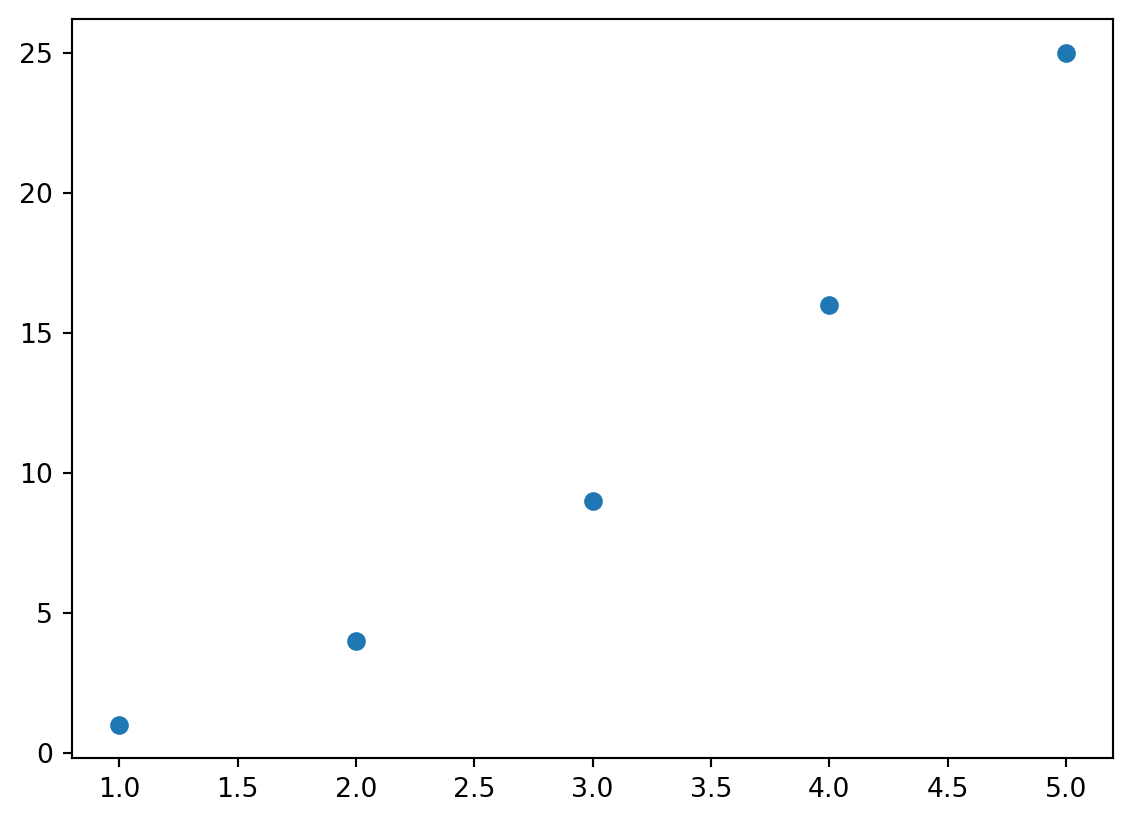
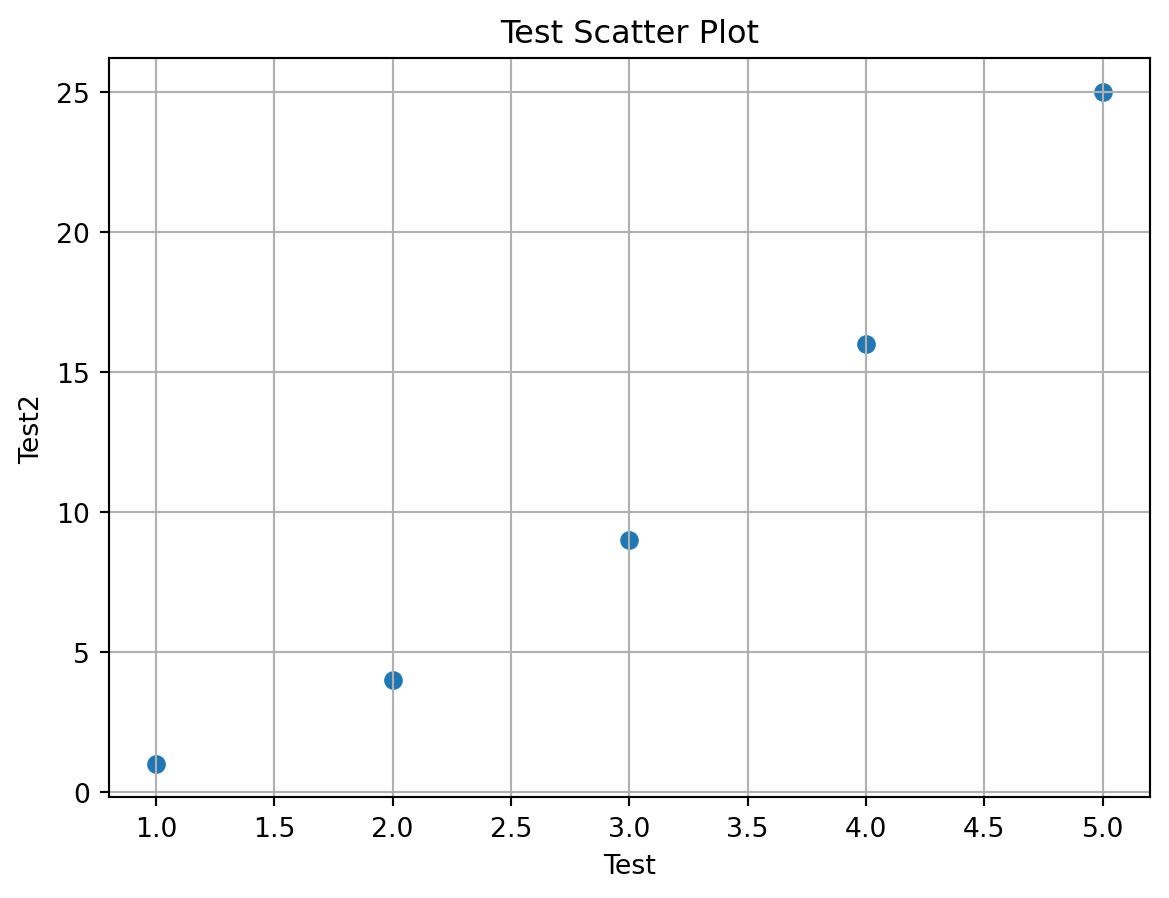
Built site for gh-pages

diff --git a/contents/RL/Rappels.html b/contents/RL/Rappels.html
@@ -236,18 +236,18 @@ window.Quarto = {
   <li><a href="#some-foundations-of-reinforcement-learning" id="toc-some-foundations-of-reinforcement-learning" class="nav-link active" data-scroll-target="#some-foundations-of-reinforcement-learning"><span class="header-section-number">1.1</span> Some Foundations of Reinforcement Learning</a>
   <ul class="collapse">
   <li><a href="#markov-decision-processes" id="toc-markov-decision-processes" class="nav-link" data-scroll-target="#markov-decision-processes"><span class="header-section-number">1.1.1</span> Markov Decision Processes</a></li>
-  <li><a href="#value-based-methods" id="toc-value-based-methods" class="nav-link" data-scroll-target="#value-based-methods"><span class="header-section-number">1.1.2</span> Value-based methods</a></li>
-  <li><a href="#policy-based-methods" id="toc-policy-based-methods" class="nav-link" data-scroll-target="#policy-based-methods"><span class="header-section-number">1.1.3</span> Policy-based methods</a></li>
-  <li><a href="#tbd" id="toc-tbd" class="nav-link" data-scroll-target="#tbd"><span class="header-section-number">1.1.4</span> TBD</a></li>
-  <li><a href="#section" id="toc-section" class="nav-link" data-scroll-target="#section"><span class="header-section-number">1.1.5</span> </a></li>
+  <li><a href="#value-based-methods" id="toc-value-based-methods" class="nav-link" data-scroll-target="#value-based-methods"><span class="header-section-number">1.2.1</span> Value-based methods</a></li>
+  <li><a href="#policy-based-methods" id="toc-policy-based-methods" class="nav-link" data-scroll-target="#policy-based-methods"><span class="header-section-number">1.2.2</span> Policy-based methods</a></li>
+  <li><a href="#tbd" id="toc-tbd" class="nav-link" data-scroll-target="#tbd"><span class="header-section-number">1.2.3</span> TBD</a></li>
+  <li><a href="#section" id="toc-section" class="nav-link" data-scroll-target="#section"><span class="header-section-number">1.2.4</span> </a></li>
   </ul></li>
-  <li><a href="#reinforcement-learning-in-continous-time" id="toc-reinforcement-learning-in-continous-time" class="nav-link" data-scroll-target="#reinforcement-learning-in-continous-time"><span class="header-section-number">1.2</span> Reinforcement Learning in Continous Time</a>
+  <li><a href="#reinforcement-learning-in-continous-time" id="toc-reinforcement-learning-in-continous-time" class="nav-link" data-scroll-target="#reinforcement-learning-in-continous-time"><span class="header-section-number">1.3</span> Reinforcement Learning in Continous Time</a>
   <ul class="collapse">
-  <li><a href="#problem-formulation" id="toc-problem-formulation" class="nav-link" data-scroll-target="#problem-formulation"><span class="header-section-number">1.2.1</span> Problem Formulation</a></li>
-  <li><a href="#policy-gradient-methods-in-continous-time" id="toc-policy-gradient-methods-in-continous-time" class="nav-link" data-scroll-target="#policy-gradient-methods-in-continous-time"><span class="header-section-number">1.2.2</span> Policy gradient methods in continous time</a></li>
-  <li><a href="#q-learning-and-approximations-in-continous-time" id="toc-q-learning-and-approximations-in-continous-time" class="nav-link" data-scroll-target="#q-learning-and-approximations-in-continous-time"><span class="header-section-number">1.2.3</span> Q-learning and approximations in continous time</a></li>
+  <li><a href="#problem-formulation" id="toc-problem-formulation" class="nav-link" data-scroll-target="#problem-formulation"><span class="header-section-number">1.3.1</span> Problem Formulation</a></li>
+  <li><a href="#policy-gradient-methods-in-continous-time" id="toc-policy-gradient-methods-in-continous-time" class="nav-link" data-scroll-target="#policy-gradient-methods-in-continous-time"><span class="header-section-number">1.3.2</span> Policy gradient methods in continous time</a></li>
+  <li><a href="#q-learning-and-approximations-in-continous-time" id="toc-q-learning-and-approximations-in-continous-time" class="nav-link" data-scroll-target="#q-learning-and-approximations-in-continous-time"><span class="header-section-number">1.3.3</span> Q-learning and approximations in continous time</a></li>
   </ul></li>
-  <li><a href="#to-go-further" id="toc-to-go-further" class="nav-link" data-scroll-target="#to-go-further"><span class="header-section-number">1.3</span> To Go Further</a></li>
+  <li><a href="#to-go-further" id="toc-to-go-further" class="nav-link" data-scroll-target="#to-go-further"><span class="header-section-number">1.4</span> To Go Further</a></li>
   </ul>
 </nav>
     </div>
@@ -295,9 +295,13 @@ $$
 <section id="some-foundations-of-reinforcement-learning" class="level2" data-number="1.1">
 <h2 data-number="1.1" class="anchored" data-anchor-id="some-foundations-of-reinforcement-learning"><span class="header-section-number">1.1</span> Some Foundations of Reinforcement Learning</h2>
 <section id="markov-decision-processes" class="level3" data-number="1.1.1">
-<h3 data-number="1.1.1" class="anchored" data-anchor-id="markov-decision-processes"><span class="header-section-number">1.1.1</span> Markov Decision Processes</h3>
+<h3 data-number="1.1.1" class="anchored"><span class="header-section-number">1.1.1</span> Markov Decision Processes</h3>
 <div id="def-MDP" class="theorem definition">
-<p><span class="theorem-title"><strong>Définition 1.1 (MDP)</strong></span> Un intervalle de confiance de niveau <span class="math inline">\(1-\alpha\)</span> est un intervalle <span class="math inline">\(I = [A,B]\)</span> dont les bornes <span class="math inline">\(A,B\)</span> sont des statistiques, et tel que pour tout <span class="math inline">\(\theta\)</span>, <span class="math display">\[P_\theta(\theta \in I) \geqslant 1 - \alpha.\]</span> Un intervalle de confiance de niveau asymptotique <span class="math inline">\(1-\alpha\)</span> est une <em>suite</em> d’intervalles <span class="math inline">\(I_n = [A_n,B_n]\)</span> dont les bornes <span class="math inline">\(A_n,B_n\)</span> sont des statistiques, et tels que pour tout <span class="math inline">\(n\)</span>, <span class="math display">\[ P_\theta(\theta \in I_n) \geqslant 1 - \alpha.\]</span></p>
+<p><span class="theorem-title"><strong>Définition 1.1</strong></span> Test</p>
+<section id="mdp" class="level2" data-number="1.2">
+<h2 data-number="1.2" class="anchored" data-anchor-id="mdp"><span class="header-section-number">1.2</span> MDP</h2>
+<p>Un intervalle de confiance de niveau <span class="math inline">\(1-\alpha\)</span> est un intervalle <span class="math inline">\(I = [A,B]\)</span> dont les bornes <span class="math inline">\(A,B\)</span> sont des statistiques, et tel que pour tout <span class="math inline">\(\theta\)</span>, <span class="math display">\[P_\theta(\theta \in I) \geqslant 1 - \alpha.\]</span> Un intervalle de confiance de niveau asymptotique <span class="math inline">\(1-\alpha\)</span> est une <em>suite</em> d’intervalles <span class="math inline">\(I_n = [A_n,B_n]\)</span> dont les bornes <span class="math inline">\(A_n,B_n\)</span> sont des statistiques, et tels que pour tout <span class="math inline">\(n\)</span>, <span class="math display">\[ P_\theta(\theta \in I_n) \geqslant 1 - \alpha.\]</span></p>
+</section>
 </div>
 <div id="thm-biaisvar" class="theorem">
 <p><span class="theorem-title"><strong>Théorème 1.1 (Décomposition biais-variance)</strong></span> Le risque quadratique <span class="math inline">\(\mathbb{E}_{\theta} [|\hat{\theta}-\theta|^2]\)</span> est égal à <span class="math display">\[
@@ -320,47 +324,47 @@ $$
 <p>Ce n’est pas le cas et cette hypothèse est très fréquemment réfutée : le premier chiffre significatif d’un nombre est bien plus souvent 1 (<span class="math inline">\(\approx 30\%\)</span> des cas) que <span class="math inline">\(9\)</span> (<span class="math inline">\(\approx 5\%\)</span> cas). Ce phénomène s’appelle <a href="https://fr.wikipedia.org/wiki/Loi_de_Benford"><em>loi de Benford</em></a>.</p>
 </div>
 </section>
-<section id="value-based-methods" class="level3" data-number="1.1.2">
-<h3 data-number="1.1.2" class="anchored" data-anchor-id="value-based-methods"><span class="header-section-number">1.1.2</span> Value-based methods</h3>
+<section id="value-based-methods" class="level3" data-number="1.2.1">
+<h3 data-number="1.2.1" class="anchored" data-anchor-id="value-based-methods"><span class="header-section-number">1.2.1</span> Value-based methods</h3>
 </section>
-<section id="policy-based-methods" class="level3" data-number="1.1.3">
-<h3 data-number="1.1.3" class="anchored" data-anchor-id="policy-based-methods"><span class="header-section-number">1.1.3</span> Policy-based methods</h3>
+<section id="policy-based-methods" class="level3" data-number="1.2.2">
+<h3 data-number="1.2.2" class="anchored" data-anchor-id="policy-based-methods"><span class="header-section-number">1.2.2</span> Policy-based methods</h3>
 </section>
-<section id="tbd" class="level3" data-number="1.1.4">
-<h3 data-number="1.1.4" class="anchored" data-anchor-id="tbd"><span class="header-section-number">1.1.4</span> TBD</h3>
+<section id="tbd" class="level3" data-number="1.2.3">
+<h3 data-number="1.2.3" class="anchored" data-anchor-id="tbd"><span class="header-section-number">1.2.3</span> TBD</h3>
 </section>
-<section id="section" class="level3" data-number="1.1.5">
-<h3 data-number="1.1.5" class="anchored" data-anchor-id="section"><span class="header-section-number">1.1.5</span> </h3>
+<section id="section" class="level3" data-number="1.2.4">
+<h3 data-number="1.2.4" class="anchored" data-anchor-id="section"><span class="header-section-number">1.2.4</span> </h3>
 </section>
 </section>
-<section id="reinforcement-learning-in-continous-time" class="level2" data-number="1.2">
-<h2 data-number="1.2" class="anchored" data-anchor-id="reinforcement-learning-in-continous-time"><span class="header-section-number">1.2</span> Reinforcement Learning in Continous Time</h2>
-<section id="problem-formulation" class="level3" data-number="1.2.1">
-<h3 data-number="1.2.1" class="anchored" data-anchor-id="problem-formulation"><span class="header-section-number">1.2.1</span> Problem Formulation</h3>
+<section id="reinforcement-learning-in-continous-time" class="level2" data-number="1.3">
+<h2 data-number="1.3" class="anchored" data-anchor-id="reinforcement-learning-in-continous-time"><span class="header-section-number">1.3</span> Reinforcement Learning in Continous Time</h2>
+<section id="problem-formulation" class="level3" data-number="1.3.1">
+<h3 data-number="1.3.1" class="anchored" data-anchor-id="problem-formulation"><span class="header-section-number">1.3.1</span> Problem Formulation</h3>
 </section>
-<section id="policy-gradient-methods-in-continous-time" class="level3" data-number="1.2.2">
-<h3 data-number="1.2.2" class="anchored" data-anchor-id="policy-gradient-methods-in-continous-time"><span class="header-section-number">1.2.2</span> Policy gradient methods in continous time</h3>
-<section id="policy-gradient-representation" class="level4" data-number="1.2.2.1">
-<h4 data-number="1.2.2.1" class="anchored" data-anchor-id="policy-gradient-representation"><span class="header-section-number">1.2.2.1</span> Policy Gradient Representation</h4>
+<section id="policy-gradient-methods-in-continous-time" class="level3" data-number="1.3.2">
+<h3 data-number="1.3.2" class="anchored" data-anchor-id="policy-gradient-methods-in-continous-time"><span class="header-section-number">1.3.2</span> Policy gradient methods in continous time</h3>
+<section id="policy-gradient-representation" class="level4" data-number="1.3.2.1">
+<h4 data-number="1.3.2.1" class="anchored" data-anchor-id="policy-gradient-representation"><span class="header-section-number">1.3.2.1</span> Policy Gradient Representation</h4>
 <p>Let’s dive into policy gradient representation now.</p>
 </section>
-<section id="actor-critic-algorithms" class="level4" data-number="1.2.2.2">
-<h4 data-number="1.2.2.2" class="anchored" data-anchor-id="actor-critic-algorithms"><span class="header-section-number">1.2.2.2</span> Actor critic algorithms</h4>
+<section id="actor-critic-algorithms" class="level4" data-number="1.3.2.2">
+<h4 data-number="1.3.2.2" class="anchored" data-anchor-id="actor-critic-algorithms"><span class="header-section-number">1.3.2.2</span> Actor critic algorithms</h4>
 <p>Let’s dive into Actor critic algorithms</p>
 </section>
 </section>
-<section id="q-learning-and-approximations-in-continous-time" class="level3" data-number="1.2.3">
-<h3 data-number="1.2.3" class="anchored" data-anchor-id="q-learning-and-approximations-in-continous-time"><span class="header-section-number">1.2.3</span> Q-learning and approximations in continous time</h3>
-<section id="tbd-1" class="level4" data-number="1.2.3.1">
-<h4 data-number="1.2.3.1" class="anchored" data-anchor-id="tbd-1"><span class="header-section-number">1.2.3.1</span> TBD</h4>
+<section id="q-learning-and-approximations-in-continous-time" class="level3" data-number="1.3.3">
+<h3 data-number="1.3.3" class="anchored" data-anchor-id="q-learning-and-approximations-in-continous-time"><span class="header-section-number">1.3.3</span> Q-learning and approximations in continous time</h3>
+<section id="tbd-1" class="level4" data-number="1.3.3.1">
+<h4 data-number="1.3.3.1" class="anchored" data-anchor-id="tbd-1"><span class="header-section-number">1.3.3.1</span> TBD</h4>
 </section>
-<section id="tbd-2" class="level4" data-number="1.2.3.2">
-<h4 data-number="1.2.3.2" class="anchored" data-anchor-id="tbd-2"><span class="header-section-number">1.2.3.2</span> TBD</h4>
+<section id="tbd-2" class="level4" data-number="1.3.3.2">
+<h4 data-number="1.3.3.2" class="anchored" data-anchor-id="tbd-2"><span class="header-section-number">1.3.3.2</span> TBD</h4>
 </section>
 </section>
 </section>
-<section id="to-go-further" class="level2" data-number="1.3">
-<h2 data-number="1.3" class="anchored" data-anchor-id="to-go-further"><span class="header-section-number">1.3</span> To Go Further</h2>
+<section id="to-go-further" class="level2" data-number="1.4">
+<h2 data-number="1.4" class="anchored" data-anchor-id="to-go-further"><span class="header-section-number">1.4</span> To Go Further</h2>
 <p>If you are interested in such topics, you can have a look at the following papers as this is a current research topic.</p>
 
 

diff --git a/contents/DeepPDE/DeepPDE.html b/contents/DeepPDE/DeepPDE.html
@@ -277,7 +277,7 @@ $$
 </header>
 
 
-<div id="7cc8408e" class="cell" data-execution_count="1">
+<div id="e4408e38" class="cell" data-execution_count="1">
 <div class="sourceCode cell-code" id="cb1"><pre class="sourceCode python code-with-copy"><code class="sourceCode python"><span id="cb1-1"><a href="#cb1-1" aria-hidden="true" tabindex="-1"></a><span class="co"># Import des Librairies</span></span>
 <span id="cb1-2"><a href="#cb1-2" aria-hidden="true" tabindex="-1"></a></span>
 <span id="cb1-3"><a href="#cb1-3" aria-hidden="true" tabindex="-1"></a><span class="im">import</span> numpy <span class="im">as</span> np</span>
@@ -293,14 +293,18 @@ $$
 <span id="cb1-13"><a href="#cb1-13" aria-hidden="true" tabindex="-1"></a></span>
 <span id="cb1-14"><a href="#cb1-14" aria-hidden="true" tabindex="-1"></a>L<span class="op">=</span>[<span class="dv">1</span>,<span class="dv">2</span>,<span class="dv">3</span>,<span class="dv">4</span>,<span class="dv">5</span>]</span>
 <span id="cb1-15"><a href="#cb1-15" aria-hidden="true" tabindex="-1"></a></span>
-<span id="cb1-16"><a href="#cb1-16" aria-hidden="true" tabindex="-1"></a>plt.scatter(L,[f(l) <span class="cf">for</span> l <span class="kw">in</span> L])</span></code><button title="Copier vers le presse-papier" class="code-copy-button"><i class="bi"></i></button></pre></div>
+<span id="cb1-16"><a href="#cb1-16" aria-hidden="true" tabindex="-1"></a>plt.scatter(L,[f(l) <span class="cf">for</span> l <span class="kw">in</span> L])</span>
+<span id="cb1-17"><a href="#cb1-17" aria-hidden="true" tabindex="-1"></a>plt.xlabel(<span class="st">"Test"</span>)</span>
+<span id="cb1-18"><a href="#cb1-18" aria-hidden="true" tabindex="-1"></a>plt.ylabel(<span class="st">"Test2"</span>)</span>
+<span id="cb1-19"><a href="#cb1-19" aria-hidden="true" tabindex="-1"></a>plt.title(<span class="st">"Test Scatter Plot"</span>)</span>
+<span id="cb1-20"><a href="#cb1-20" aria-hidden="true" tabindex="-1"></a>plt.grid()</span></code><button title="Copier vers le presse-papier" class="code-copy-button"><i class="bi"></i></button></pre></div>
 <div class="cell-output cell-output-stdout">
 <pre><code>[0 1 2 3 4]</code></pre>
 </div>
 <div class="cell-output cell-output-display">
 <div>
 <figure class="figure">
-<p><img src="DeepPDE_files/figure-html/cell-2-output-2.png" width="566" height="411" class="figure-img"></p>
+<p><img src="DeepPDE_files/figure-html/cell-2-output-2.png" width="585" height="449" class="figure-img"></p>
 </figure>
 </div>
 </div>
